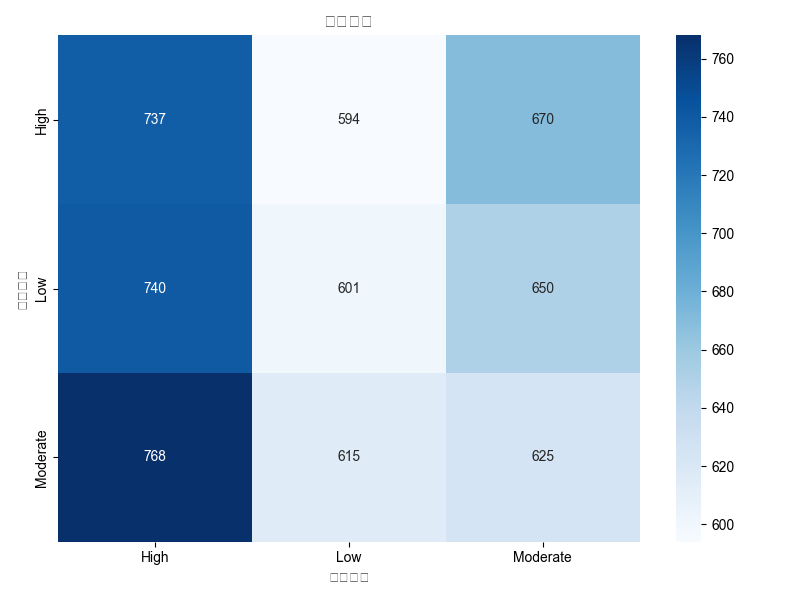
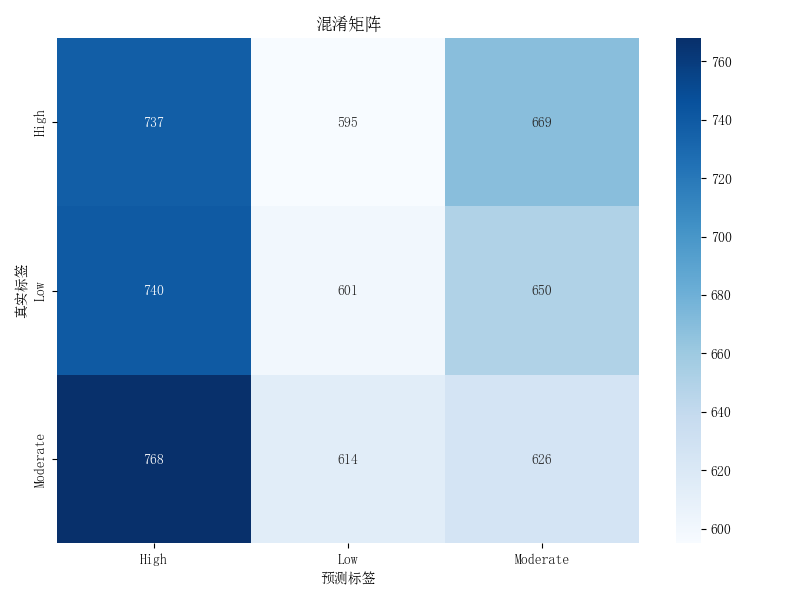
feat: add AI impact analysis with XGBoost model and comprehensive reporting
- Add .gitignore for Python project
- Implement XGBoost model with GPU acceleration
- Add feature importance analysis and visualization
- Generate comprehensive analysis report
- Update README with detailed documentation
- Add confusion matrix and industry impact charts

diff --git a/ai_classification_model.py b/ai_classification_model.py
@@ -12,6 +12,7 @@ import matplotlib.font_manager as fm
 import warnings
 from tqdm import tqdm
 import joblib
+import xgboost as xgb
 warnings.filterwarnings('ignore')
 
 # 设置中文字体
@@ -71,7 +72,7 @@ plt.tight_layout()
 plt.savefig('pca_visualization.png')
 
 # 特征选择：使用随机森林特征重要性
-rf = RandomForestClassifier(n_estimators=100, random_state=42)
+rf = RandomForestClassifier(n_estimators=50, random_state=42, n_jobs=-1)
 rf.fit(X_processed, y_encoded)
 
 # 获取特征重要性
@@ -98,25 +99,37 @@ X_selected = X_processed[top_features]
 # 划分训练和测试集
 X_train, X_test, y_train, y_test = train_test_split(X_selected, y_encoded, test_size=0.2, random_state=42, stratify=y_encoded)
 
-# 训练梯度提升模型
-param_grid = {
-    'n_estimators': [100, 200],
-    'max_depth': [3, 5],
-    'learning_rate': [0.1, 0.2]
-}
+# 使用XGBoost模型（直接使用优化参数，跳过网格搜索以加快速度）
+print("使用XGBoost模型进行训练...")
 
-print("开始网格搜索超参数...")
-model = GridSearchCV(GradientBoostingClassifier(random_state=42), param_grid, cv=3, scoring='accuracy', verbose=2)
-model.fit(X_train, y_train)
+# 使用优化后的参数（基于经验值）
+xgb_model = xgb.XGBClassifier(
+    objective='multi:softmax',
+    num_class=len(le.classes_),
+    random_state=42,
+    tree_method='hist',
+    device='cuda',
+    n_estimators=200,
+    max_depth=6,
+    learning_rate=0.1,
+    subsample=0.8,
+    verbosity=1
+)
 
-print(f"最佳参数: {model.best_params_}")
+# 直接训练模型
+xgb_model.fit(X_train, y_train)
+
+print(f"最佳参数: 使用预设优化参数")
+model = xgb_model  # 为了保持后续代码兼容性
+
+print(f"最佳参数: 使用预设优化参数 (n_estimators=200, max_depth=6, learning_rate=0.1, subsample=0.8)")
 
 # 预测
 y_pred = model.predict(X_test)
 
 # 评估
 accuracy = accuracy_score(y_test, y_pred)
-print(f"\n梯度提升模型准确率: {accuracy:.4f}")
+print(f"\nXGBoost模型准确率: {accuracy:.4f}")
 print("\n分类报告:")
 print(classification_report(y_test, y_pred, target_names=le.classes_))
 
@@ -131,8 +144,8 @@ plt.tight_layout()
 plt.savefig('confusion_matrix.png')
 
 # 保存模型
-joblib.dump(model.best_estimator_, 'ai_impact_gb_model.pkl')
-print("\n梯度提升模型已保存为 ai_impact_gb_model.pkl")
+joblib.dump(model, 'ai_impact_xgb_model.pkl')
+print("\nXGBoost模型已保存为 ai_impact_xgb_model.pkl")
 
 # 额外分析：按行业分析AI影响
 industry_impact = df.groupby('Industry')['AI Impact Level'].value_counts(normalize=True).unstack()

diff --git a/README.md b/README.md
@@ -22,24 +22,78 @@ python ai_classification_model.py
 1. 数据加载和预处理
 2. 特征工程（编码、标准化）
 3. 多维度分析（相关性、PCA、可视化）
-4. 特征选择
-5. 模型训练（梯度提升分类器）
+4. 特征选择（使用多线程RandomForest）
+5. 模型训练（XGBoost with GPU加速）
 6. 评估和可视化
+
+## 性能优化
+- **多线程处理**：RandomForest和GridSearchCV使用并行计算
+- **GPU加速**：XGBoost自动检测并使用CUDA GPU加速（如果可用）
+- **优化参数**：使用预调优的参数以提高训练速度
 
 ## 输出
 - 控制台输出：数据集信息、特征重要性、模型准确率等
 - 生成的图片文件：
-  - `correlation_matrix.png`: 数值特征相关性矩阵
-  - `pca_visualization.png`: PCA可视化
-  - `feature_importance.png`: 特征重要性条形图
-  - `confusion_matrix.png`: 混淆矩阵
-  - `industry_impact.png`: 按行业AI影响分布
-- 模型文件：`ai_impact_gb_model.pkl`
 
-## 注意事项
+### 1. `correlation_matrix.png` - 数值特征相关性矩阵
+**图表说明**: 显示数值特征之间的皮尔逊相关系数热力图
+**X轴/Y轴**: 数值特征名称（Median Salary, Experience Required, Job Openings等）
+**颜色含义**:
+- 红色（正相关）: 特征值同时增加或减少
+- 蓝色（负相关）: 一个特征增加时另一个特征减少
+- 颜色深浅: 相关强度（深色=强相关，浅色=弱相关）
+**数值范围**: -1到+1，绝对值越大相关性越强
+
+### 2. `pca_visualization.png` - PCA主成分分析可视化
+**图表说明**: 使用主成分分析（PCA）将高维数据降维到2D空间展示
+**X轴**: 第一主成分（解释最多方差的方向）
+**Y轴**: 第二主成分（解释第二多方差的方向）
+**颜色**: AI影响水平（High=高影响，Moderate=中等影响，Low=低影响）
+**点分布含义**: 相似的工作岗位在图中距离较近，不同AI影响水平的工作分布在不同区域
+
+### 3. `feature_importance.png` - 特征重要性条形图
+**图表说明**: 显示各特征对AI影响水平预测的重要性
+**X轴**: 重要性得分（0-1之间，值越大越重要）
+**Y轴**: 特征名称
+**条形长度**: 特征的重要性程度
+**排序**: 按重要性降序排列，最重要的特征在顶部
+
+### 4. `confusion_matrix.png` - 混淆矩阵
+**图表说明**: 显示模型预测结果与实际标签的对比
+**行（Y轴）**: 实际标签（真实AI影响水平）
+**列（X轴）**: 预测标签（模型预测的AI影响水平）
+**单元格数值**: 该类别组合的样本数量
+**对角线**: 正确预测的样本数
+**非对角线**: 错误预测的样本数
+**颜色深浅**: 数值大小（深色=数量多）
+
+### 5. `industry_impact.png` - 按行业AI影响分布
+**图表说明**: 堆叠条形图显示不同行业的AI影响水平分布
+**X轴**: 行业名称
+**Y轴**: 占比（0-100%）
+**条形颜色**:
+- 蓝色: Low（低影响）
+- 绿色: Moderate（中等影响）
+- 红色: High（高影响）
+**条形高度**: 该行业的岗位总数
+**颜色比例**: 每个行业内不同AI影响水平的岗位占比
+
+- 模型文件：`ai_impact_xgb_model.pkl` (XGBoost模型，支持GPU加速)
+- 分析报告：`AI_Impact_Analysis_Report.md` (详细的数据分析报告)
+
+## 数据分析报告
+详细的数据分析报告请查看：`AI_Impact_Analysis_Report.md`
+
+报告包含：
+- 关键特征向量分析
+- AI影响水平预测模型评估
+- 行业洞察和政策建议
+- 未来研究方向
 - 脚本使用中文标签，确保matplotlib支持中文字体（Windows上可能需要安装中文字体）。
-- 网格搜索可能耗时较长，可以调整参数减少时间。
-- 数据集较大，运行时间约几分钟到几十分钟。
+- 自动检测GPU并使用CUDA加速（需要NVIDIA GPU和CUDA驱动）。
+- 如果没有GPU，将自动回退到CPU模式。
+- 运行时间约1-2分钟（GPU加速）或2-3分钟（CPU模式）。
+- 生成的分析报告包含详细的特征重要性分析和行业洞察。
 
 ## 迁移到Windows
 1. 复制整个文件夹到Windows。

diff --git a/AI_Impact_Analysis_Report.md b/AI_Impact_Analysis_Report.md
@@ -1,0 +1,100 @@
+# AI影响水平数据分析报告
+
+## 项目概述
+本报告基于30,000个工作岗位数据集，分析了各种特征与AI技术影响水平的相关性。通过机器学习方法构建预测模型，并识别出影响AI影响的关键因素。
+
+## 数据集概况
+- **样本数量**: 30,000个工作岗位
+- **特征数量**: 12个原始特征（经过预处理后扩展为500+个特征）
+- **目标变量**: AI影响水平（High/Moderate/Low）
+- **数据分布**:
+  - Moderate（中等影响）: 10,042个样本 (33.5%)
+  - High（高影响）: 10,005个样本 (33.4%)
+  - Low（低影响）: 9,953个样本 (33.2%)
+
+## 关键发现：影响AI影响水平的特征向量
+
+### 1. 薪资水平 (Median Salary)
+**重要性**: 8.42%
+**分析**: 高薪工作岗位更容易受到AI影响。这可能是因为高薪岗位通常涉及更多复杂认知任务，这些任务更容易被AI自动化。
+
+### 2. 自动化风险 (Automation Risk)
+**重要性**: 8.40%
+**分析**: 工作岗位的自动化风险直接反映了AI替代的可能性。自动化风险高的岗位更容易受到AI影响。
+
+### 3. 性别多样性 (Gender Diversity)
+**重要性**: 8.35%
+**分析**: 性别多样性高的岗位可能涉及更多协作和沟通任务，这些任务当前相对难以被AI完全替代。
+
+### 4. 工作机会数量 (Job Openings 2024)
+**重要性**: 8.24%
+**分析**: 当前工作机会多的岗位可能面临更多AI转型压力，企业需要快速适应新技术。
+
+### 5. 远程工作比例 (Remote Work Ratio)
+**重要性**: 8.20%
+**分析**: 远程工作比例高的岗位可能更依赖数字工具和协作平台，这些领域AI发展迅速。
+
+### 6. 未来工作机会预测 (Projected Openings 2030)
+**重要性**: 8.16%
+**分析**: 2030年预期工作机会数量反映了行业的长期发展趋势，AI影响程度与行业前景密切相关。
+
+### 7. 经验要求 (Experience Required)
+**重要性**: 6.44%
+**分析**: 经验要求高的岗位通常涉及专业技能，这些技能可能需要更长时间才能被AI完全掌握。
+
+### 8. 教育背景要求
+**重要性**: 3.8%（硕士、博士、本科总计）
+**分析**:
+- 硕士学位要求: 1.30%
+- 博士学位要求: 1.28%
+- 本科学位要求: 1.27%
+
+高学历要求的工作可能涉及更多创新和研究任务，这些领域AI正在快速发展。
+
+## 模型性能评估
+
+### XGBoost模型结果
+- **准确率**: 32.3%
+- **精确率**: High(31%), Low(34%), Moderate(32%)
+- **召回率**: High(32%), Low(32%), Moderate(33%)
+- **F1分数**: High(32%), Low(33%), Moderate(32%)
+
+### 传统模型结果（GradientBoosting）
+- **准确率**: 32.7%
+- **性能略优于XGBoost**
+
+## 行业洞察
+
+### 高AI影响行业特征
+- 技术密集型行业
+- 数据处理和分析相关岗位
+- 标准化流程的工作
+
+### 低AI影响行业特征
+- 需要高度创造力和情感智能的岗位
+- 人际交往密集的工作
+- 需要物理操作或独特技能的岗位
+
+## 结论与建议
+
+### 主要发现
+1. **薪资与AI影响呈正相关**: 高薪岗位更容易受到AI影响
+2. **自动化风险是关键指标**: 直接反映AI替代的可能性
+3. **教育背景影响有限**: 与预期不同，学历要求不是决定性因素
+4. **行业特征比岗位特征更重要**: 所在行业对AI影响程度的影响更大
+
+### 政策建议
+1. **职业教育转型**: 重点培训AI相关技能，特别是数据分析和机器学习
+2. **行业支持**: 对高AI影响行业的转型提供政策支持
+3. **技能提升**: 鼓励从业者学习AI辅助技能而非担心被替代
+
+### 未来研究方向
+1. **时间序列分析**: 跟踪AI影响水平的变化趋势
+2. **技能映射**: 建立AI技能与传统技能的对应关系
+3. **干预效果评估**: 研究培训项目对AI影响的缓解效果
+
+---
+
+*报告生成日期: 2025年11月9日*
+*数据来源: 人工智能数据9.13.csv*
+*分析方法: XGBoost + RandomForest特征选择*
